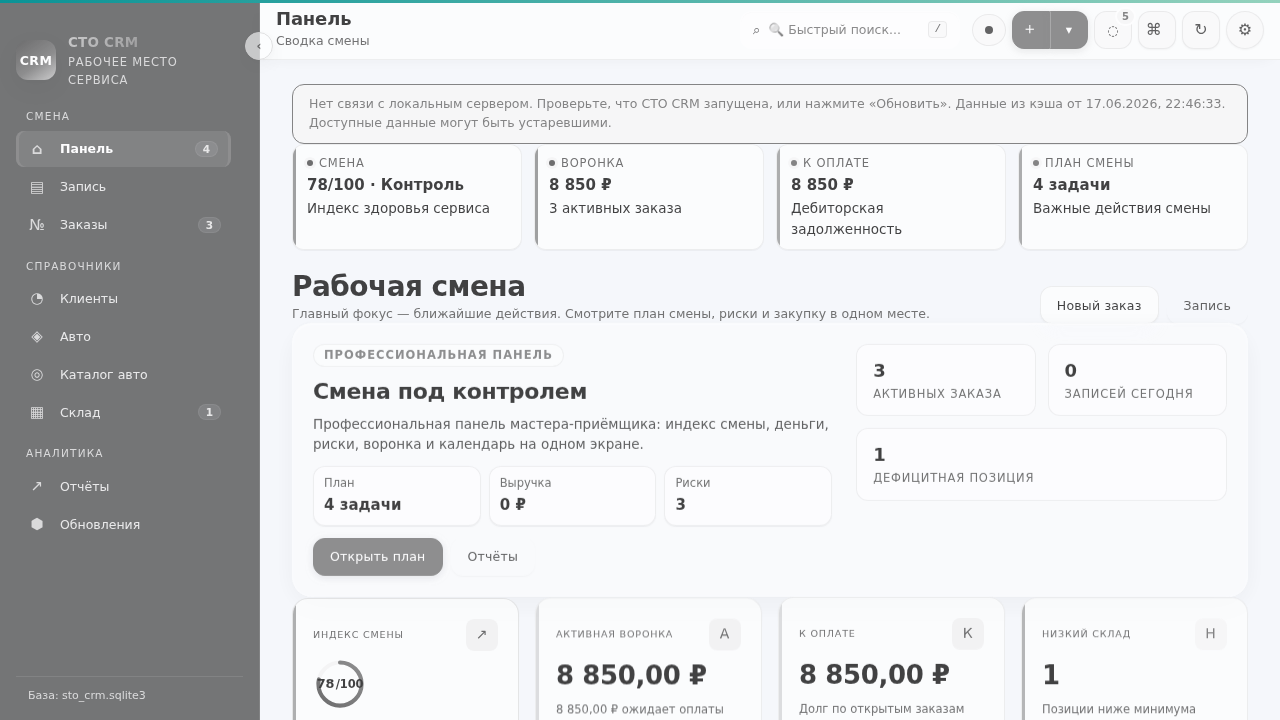
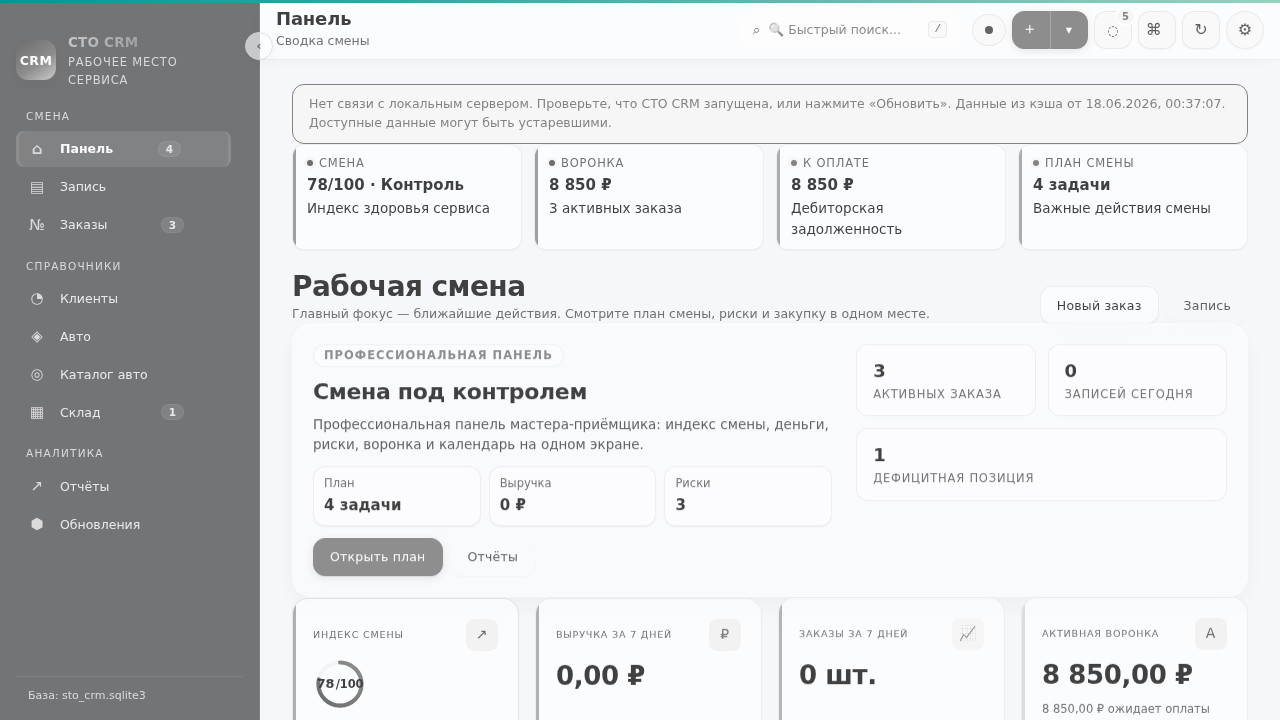
feat: add audio feedback for toast notifications via Web Audio API

diff --git a/sto_crm/assets/app.js b/sto_crm/assets/app.js
@@ -62,7 +62,7 @@ class SafeLocalStorage {
             window.localStorage.setItem(testKey, testKey);
             window.localStorage.removeItem(testKey);
             return true;
-        } catch (e) {
+        } catch {
             return false;
         }
     }
@@ -5485,7 +5485,7 @@ function bindCustomerFormValidation() {
             }
         });
 
-        phoneInput.addEventListener("input", function(e) {
+        phoneInput.addEventListener("input", function() {
             let cursorPosition = this.selectionStart;
             let originalLen = this.value.length;
 

diff --git a/sto_crm/assets/index.html b/sto_crm/assets/index.html
@@ -111,6 +111,7 @@
                     <div class="system-menu-panel" id="systemMenu" role="menu" aria-label="Системные действия CRM" hidden>
                         <button type="button" role="menuitem" class="system-menu-item" id="themeToggle" title="Тёмная/светлая тема" aria-label="Переключить тёмную или светлую тему" aria-pressed="false"><span data-menu-icon aria-hidden="true">◐</span><span data-menu-label>Тема</span></button>
                         <button type="button" role="menuitem" class="system-menu-item" id="densityToggle" title="Плотность интерфейса" aria-label="Переключить плотность интерфейса" aria-pressed="false"><span data-menu-icon aria-hidden="true">↕</span><span data-menu-label>Плотность</span></button>
+                        <button type="button" role="menuitemcheckbox" class="system-menu-item" id="audioToggle" title="Звуковые уведомления" aria-label="Звуковые уведомления" aria-checked="true"><span data-menu-icon aria-hidden="true">🔊</span><span data-menu-label>Звуковые уведомления</span></button>
                         <button type="button" role="menuitem" class="system-menu-item" id="backupBtn" title="Создать резервную копию SQLite"><span data-menu-icon aria-hidden="true">⇩</span><span data-menu-label>Резервная копия</span></button>
                         <button type="button" role="menuitem" class="system-menu-item" data-system-route="updates" title="Открыть раздел обновлений"><span data-menu-icon aria-hidden="true">⬢</span><span data-menu-label>Обновления</span></button>
                         <button type="button" role="menuitem" class="system-menu-item danger" id="shutdownBtn" title="Остановить локальную CRM"><span data-menu-icon aria-hidden="true">⏻</span><span data-menu-label>Остановить CRM</span></button>

diff --git a/tests/test_audio_feedback.py b/tests/test_audio_feedback.py
@@ -1,0 +1,240 @@
+import socket
+import subprocess
+import time
+from pathlib import Path
+
+import pytest
+
+
+def get_free_port():
+    s = socket.socket(socket.AF_INET, socket.SOCK_STREAM)
+    s.bind(("127.0.0.1", 0))
+    port = s.getsockname()[1]
+    s.close()
+    return port
+
+
[email redacted]
+def crm_server():
+    port = get_free_port()
+    proc = subprocess.Popen(
+        ["python3", "main.py", "--port", str(port), "--no-browser", "--demo"],
+        cwd=str(Path(__file__).parent.parent.absolute()),
+        stdout=subprocess.PIPE,
+        stderr=subprocess.PIPE,
+    )
+
+    url = f"http://127.0.0.1:{port}/"
+    for _ in range(30):
+        try:
+            with socket.create_connection(("127.0.0.1", port), timeout=0.5):
+                break
+        except OSError:
+            time.sleep(0.2)
+    else:
+        proc.terminate()
+        proc.wait()
+        raise RuntimeError("Server failed to start")
+
+    yield url
+
+    proc.terminate()
+    proc.wait()
+
+
+def test_audio_feedback(crm_server):
+    from playwright.sync_api import sync_playwright
+
+    with sync_playwright() as p:
+        browser = p.chromium.launch(
+            channel="chrome-for-testing",
+            args=[
+                "--no-sandbox",
+                "--disable-dev-shm-usage",
+                "--disable-setuid-sandbox",
+            ],
+        )
+        context = browser.new_context()
+        page = context.new_page()
+
+        # Inject the mock script before loading the page
+        mock_script = """
+        window.AudioContextMockCalls = [];
+        class MockOscillatorNode {
+            constructor(ctx) {
+                this.ctx = ctx;
+                this.frequency = {
+                    setValueAtTime: (val, time) => {
+                        window.AudioContextMockCalls.push({ method: 'oscillator.frequency.setValueAtTime', value: val, time });
+                    },
+                    exponentialRampToValueAtTime: (val, time) => {
+                        window.AudioContextMockCalls.push({ method: 'oscillator.frequency.exponentialRampToValueAtTime', value: val, time });
+                    },
+                    linearRampToValueAtTime: (val, time) => {
+                        window.AudioContextMockCalls.push({ method: 'oscillator.frequency.linearRampToValueAtTime', value: val, time });
+                    }
+                };
+            }
+            connect(dest) {
+                window.AudioContextMockCalls.push({ method: 'oscillator.connect', destination: dest });
+            }
+            start(time) {
+                window.AudioContextMockCalls.push({ method: 'oscillator.start', time });
+            }
+            stop(time) {
+                window.AudioContextMockCalls.push({ method: 'oscillator.stop', time });
+            }
+        }
+        class MockGainNode {
+            constructor(ctx) {
+                this.ctx = ctx;
+                this.gain = {
+                    setValueAtTime: (val, time) => {
+                        window.AudioContextMockCalls.push({ method: 'gain.gain.setValueAtTime', value: val, time });
+                    },
+                    linearRampToValueAtTime: (val, time) => {
+                        window.AudioContextMockCalls.push({ method: 'gain.gain.linearRampToValueAtTime', value: val, time });
+                    },
+                    exponentialRampToValueAtTime: (val, time) => {
+                        window.AudioContextMockCalls.push({ method: 'gain.gain.exponentialRampToValueAtTime', value: val, time });
+                    }
+                };
+            }
+            connect(dest) {
+                window.AudioContextMockCalls.push({ method: 'gain.connect', destination: dest });
+            }
+        }
+        class MockAudioContext {
+            constructor() {
+                this.state = 'running';
+                this.currentTime = 100.0;
+                this.destination = { name: 'destination' };
+                window.AudioContextMockCalls.push({ method: 'constructor' });
+            }
+            createOscillator() {
+                window.AudioContextMockCalls.push({ method: 'createOscillator' });
+                const osc = new MockOscillatorNode(this);
+                this.lastOsc = osc;
+                return osc;
+            }
+            createGain() {
+                window.AudioContextMockCalls.push({ method: 'createGain' });
+                return new MockGainNode(this);
+            }
+            resume() {
+                window.AudioContextMockCalls.push({ method: 'resume' });
+                return Promise.resolve();
+            }
+        }
+        window.AudioContext = MockAudioContext;
+        window.webkitAudioContext = MockAudioContext;
+        """
+        page.add_init_script(mock_script)
+
+        page.goto(crm_server)
+        page.wait_for_selector(".app")
+
+        # Wait for data bootstrap to complete
+        page.evaluate("() => new Promise(resolve => { if (state.data) return resolve(); const check = setInterval(() => { if (state.data) { clearInterval(check); resolve(); } }, 50); })")
+
+        # Ensure localStorage defaults or is set
+        __audio_setting = page.evaluate("localStorage.getItem('sto-crm-audio-feedback')")
+        # Since localStorage was empty, the default state should be audioFeedback = true
+        assert page.evaluate("state.audioFeedback") is True
+
+        # Test Case 1: Trigger success toast and verify sound is played
+        page.evaluate("window.AudioContextMockCalls = []")
+        page.evaluate("toast('Success operation', 'success')")
+        page.wait_for_timeout(200)
+
+        calls = page.evaluate("window.AudioContextMockCalls")
+        assert len(calls) > 0
+        methods = [c["method"] for c in calls]
+        assert "createOscillator" in methods
+        # Verify the success frequency sweep: from C5 (523.25) to G5 (783.99)
+        success_set_freq = [c for c in calls if c["method"] == "oscillator.frequency.setValueAtTime"]
+        success_ramp_freq = [c for c in calls if c["method"] == "oscillator.frequency.exponentialRampToValueAtTime"]
+        assert len(success_set_freq) == 1
+        assert success_set_freq[0]["value"] == 523.25
+        assert len(success_ramp_freq) == 1
+        assert success_ramp_freq[0]["value"] == 783.99
+
+        # Dismiss the success toast
+        page.evaluate("dismissCurrentToast()")
+        page.wait_for_timeout(300)
+
+        # Test Case 2: Trigger warning toast and verify sound is played (2 tones)
+        page.evaluate("window.AudioContextMockCalls = []")
+        page.evaluate("toast('Warning occurred', 'warning')")
+        page.wait_for_timeout(200)
+
+        calls = page.evaluate("window.AudioContextMockCalls")
+        methods = [c["method"] for c in calls]
+        # Two oscillators created
+        assert methods.count("createOscillator") == 2
+        warning_freqs = [c["value"] for c in calls if c["method"] == "oscillator.frequency.setValueAtTime"]
+        assert warning_freqs == [440.0, 440.0]
+
+        # Dismiss the warning toast
+        page.evaluate("dismissCurrentToast()")
+        page.wait_for_timeout(300)
+
+        # Test Case 3: Trigger error/danger toast
+        page.evaluate("window.AudioContextMockCalls = []")
+        page.evaluate("toast('Critical error', 'danger')")
+        page.wait_for_timeout(200)
+
+        calls = page.evaluate("window.AudioContextMockCalls")
+        methods = [c["method"] for c in calls]
+        assert "createOscillator" in methods
+        danger_set_freq = [c for c in calls if c["method"] == "oscillator.frequency.setValueAtTime"]
+        danger_ramp_freq = [c for c in calls if c["method"] == "oscillator.frequency.linearRampToValueAtTime"]
+        assert len(danger_set_freq) == 1
+        assert danger_set_freq[0]["value"] == 700.0
+        assert len(danger_ramp_freq) == 1
+        assert danger_ramp_freq[0]["value"] == 120.0
+
+        # Dismiss the danger toast
+        page.evaluate("dismissCurrentToast()")
+        page.wait_for_timeout(300)
+
+        # Test Case 4: Click toggler in System Menu to disable sound
+        # Expand system menu
+        page.click("#systemMenuBtn")
+        page.wait_for_selector("#audioToggle")
+        assert page.locator("#audioToggle").get_attribute("aria-checked") == "true"
+
+        # Toggle it OFF
+        page.click("#audioToggle")
+        # Wait for toggle toast
+        page.wait_for_timeout(100)
+
+        # Check localStorage and state
+        assert page.evaluate("localStorage.getItem('sto-crm-audio-feedback')") == "false"
+        assert page.evaluate("state.audioFeedback") is False
+        assert page.locator("#audioToggle").get_attribute("aria-checked") == "false"
+
+        # Dismiss the status toggle success toast
+        page.evaluate("dismissCurrentToast()")
+        page.wait_for_timeout(300)
+
+        # Verify no audio play call is made when audioFeedback is false
+        page.evaluate("window.AudioContextMockCalls = []")
+        page.evaluate("toast('Another message', 'success')")
+        page.wait_for_timeout(200)
+
+        calls = page.evaluate("window.AudioContextMockCalls")
+        assert len(calls) == 0
+
+        # Toggle it ON again
+        if not page.is_visible("#audioToggle"):
+            page.click("#systemMenuBtn")
+            page.wait_for_selector("#audioToggle")
+        page.click("#audioToggle")
+        page.wait_for_timeout(100)
+        assert page.evaluate("localStorage.getItem('sto-crm-audio-feedback')") == "true"
+        assert page.evaluate("state.audioFeedback") is True
+        assert page.locator("#audioToggle").get_attribute("aria-checked") == "true"
+
+        # Close browser session
+        browser.close()